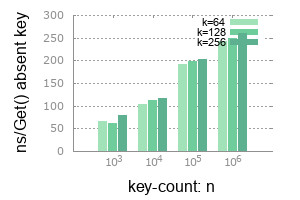
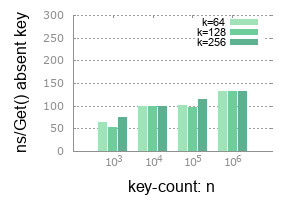
doc: slimtrie: update report

diff --git a/trie/report/bench_msab_present_scan.md b/trie/report/bench_msab_present_scan.md
@@ -1,6 +1,6 @@
 | key-count | map | SlimTrie | array | Btree |
 |-----------|-----|----------|-------|-------|
-|      1000 |  20 |       76 |   155 |   209 |
-|     10000 |  37 |       96 |   191 |   258 |
-|    100000 |  87 |      154 |   277 |   391 |
-|   1000000 | 115 |      206 |   333 |   423 |
+|      1000 |  12 |       88 |   129 |   217 |
+|     10000 |  28 |      104 |   143 |   307 |
+|    100000 |  41 |      100 |   176 |   379 |
+|   1000000 |  62 |      136 |   210 |   432 |

diff --git a/trie/report/bench_msab_present_zipf.md b/trie/report/bench_msab_present_zipf.md
@@ -1,6 +1,6 @@
 | key-count | map | SlimTrie | array | Btree |
 |-----------|-----|----------|-------|-------|
-|      1000 |  18 |       70 |   146 |   195 |
-|     10000 |  28 |      100 |   226 |   297 |
-|    100000 |  34 |       93 |   317 |   457 |
-|   1000000 |  35 |      166 |   462 |   637 |
+|      1000 |  11 |       67 |   101 |   219 |
+|     10000 |  23 |      112 |   148 |   326 |
+|    100000 |  27 |       91 |   193 |   448 |
+|   1000000 |  26 |      162 |   269 |   594 |

diff --git a/trie/report/bench_get_absent_scan.md b/trie/report/bench_get_absent_scan.md
@@ -1,6 +1,6 @@
 | key-count | k=64 | k=128 | k=256 |
 |-----------|------|-------|-------|
-|      1000 |   64 |    60 |    77 |
-|     10000 |  101 |   110 |   115 |
-|    100000 |  190 |   196 |   200 |
-|   1000000 |  240 |   248 |   258 |
+|      1000 |   61 |    51 |    73 |
+|     10000 |   97 |    98 |    97 |
+|    100000 |   99 |    94 |   112 |
+|   1000000 |  130 |   130 |   130 |

diff --git a/trie/report/bench_get_absent_zipf.md b/trie/report/bench_get_absent_zipf.md
@@ -1,6 +1,6 @@
 | key-count | k=64 | k=128 | k=256 |
 |-----------|------|-------|-------|
-|      1000 |   70 |    68 |    53 |
-|     10000 |   84 |    94 |    87 |
-|    100000 |   84 |    90 |    87 |
-|   1000000 |  149 |   154 |   141 |
+|      1000 |   78 |    67 |    45 |
+|     10000 |   93 |   100 |    92 |
+|    100000 |   83 |    85 |    86 |
+|   1000000 |  141 |   152 |   127 |

diff --git a/trie/report/bench_get_present_scan.md b/trie/report/bench_get_present_scan.md
@@ -1,6 +1,6 @@
 | key-count | k=64 | k=128 | k=256 |
 |-----------|------|-------|-------|
-|      1000 |   64 |    64 |    67 |
-|     10000 |   96 |    96 |   102 |
-|    100000 |  156 |   157 |   161 |
-|   1000000 |  202 |   207 |   217 |
+|      1000 |   65 |    68 |    72 |
+|     10000 |  105 |   106 |   110 |
+|    100000 |   98 |    98 |   101 |
+|   1000000 |  137 |   139 |   143 |

diff --git a/trie/report/bench_get_present_zipf.md b/trie/report/bench_get_present_zipf.md
@@ -1,6 +1,6 @@
 | key-count | k=64 | k=128 | k=256 |
 |-----------|------|-------|-------|
-|      1000 |   79 |    58 |    79 |
-|     10000 |   85 |    97 |    87 |
-|    100000 |   90 |    91 |    96 |
-|   1000000 |  162 |   151 |   164 |
+|      1000 |   89 |    63 |    92 |
+|     10000 |   94 |   110 |   102 |
+|    100000 |   90 |    93 |   108 |
+|   1000000 |  161 |   146 |   169 |

diff --git a/trie/report/mem_usage.md b/trie/report/mem_usage.md
@@ -1,6 +1,6 @@
 | key-count | k=64 | k=128 | k=256 |
 |-----------|------|-------|-------|
-|      1000 |   20 |    18 |    17 |
-|     10000 |   11 |    11 |    11 |
+|      1000 |   22 |    21 |    19 |
+|     10000 |   12 |    12 |    12 |
 |    100000 |   10 |    10 |    10 |
 |   1000000 |   11 |    11 |    11 |
